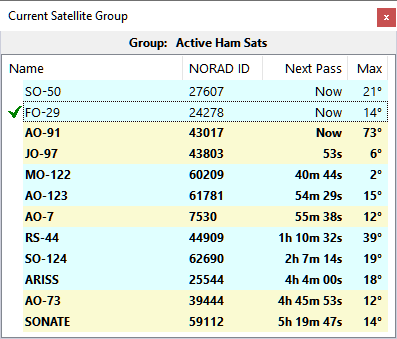
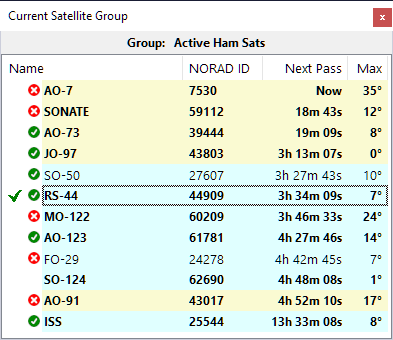
release v.1.7

diff --git a/docs/users_guide/waterfall_display.md b/docs/users_guide/waterfall_display.md
@@ -1,5 +1,7 @@
 # Waterfall Display
 
+## Using Waterfall Display
+
 The waterfall display and associated
 [Frequency Scale](frequency_scale.md)
 is the central piece of SkyRoof that integrates most of the functions available in the application:
@@ -29,3 +31,32 @@ and select a color palette:
 
 - [Frequency Scale](frequency_scale.md)
 - [Doppler Tracking](doppler_tracking.md)
+
+## Waterfall Display Characteristics
+
+Finding and tracking satellite signals on the VHF and UHF bands is a difficult task. These signals are weak
+because the output power of most satellite transmiites is in the milliwatt range. The fact that
+an omnidirectional antenna needs to be used to receive all in-range satellites at the same time makes this task
+even more difficult. On top of that, we need to see the whole 3-MHz frequency segment where the satellite signals
+may appear, and at the same time we want a very high resolution to examine the structure of the signals,
+and to tune precisely to CW, SSB and digital transmissions.
+
+The waterfall display in SkyRoof solves these problems by computing power spectra oversampled by a factor of about 100.
+This has three important consequences:
+
+1. You can zoom in the waterfall display without changing its resolution in Settings, just by spinning the mouse wheel.
+    When zoomed in to the maximum, you can see the signals with a **100x** maginification (20 Hz resolution).
+
+2. When zoomed out to the maxmimum to see the whole 3-MHz segment, the sensitivity of the waterfall display to
+    narrowband signals improves by about **15 dB** due to oversampling.
+
+3. Spectrum oversampling, however, increases the requirements to the hardware:
+    - more CPU power is needed to compute very large spectra;
+    - more texture memory is needed in the video card to store the spectra;
+    - support of OpenGL 3.3 or higher is required for the zoom function.
+
+    Please see the [System Requirements](system_requirements.md) section for the exact requirements.
+
+If your computer does not meet these requirements, you can still use the pass prediction, Doppler correction,
+radio control and rotator control functions in SkyRoof, just disable the SDR function and close the Waterfall
+Display panel.

diff --git a/docs/download.md b/docs/download.md
@@ -4,7 +4,7 @@
 
 ### Current Version
 
-[SkyRoof.zip v.1.6 Beta](https://github.com/VE3NEA/SkyRoof/releases/download/v.1.6-beta/SkyRoofSetup-v.1.6-beta.zip)
+[SkyRoof.zip v.1.7 Beta](https://github.com/VE3NEA/SkyRoof/releases/download/v.1.7-beta/SkyRoofSetup-v.1.7-beta.zip)
 
 <br>
 
@@ -15,6 +15,13 @@ See [All Releases](https://github.com/VE3NEA/SkyRoof/releases)
 <br>
 
 ### Release Notes
+
+#### v.1.7 Beta
+
+- added a real-time satellite status indicator to the
+[Current Group](users_guide/current_group_panel.md) panel. Must be enabled in Settings.
+
+    ![Current Group](images/current_group.png)
 
 #### v.1.6 Beta
 

diff --git a/docs/users_guide/system_requirements.md b/docs/users_guide/system_requirements.md
@@ -2,8 +2,9 @@
 
 ## Hardware
 
-- **Computer**: any modern 64-bit PC;
-- **Monitor**: screen resolution 1900x1280 or higher  4K recommended;
+- **Computer**: 64-bit PC. 3-GHz Quad-core CPU is recommended;
+- **Video Card**:  OpenGL 3.3 or higher, 512 Mb of texture memory;
+- **Monitor**: screen resolution 1900x1280 or higher, 4K recommended;
 - **Internet**: required, to download satellite data;
 - **SDR**: optional, but highly recommended. Supported models:
   - Airspy Mini;

diff --git a/docs/users_guide/current_group_panel.md b/docs/users_guide/current_group_panel.md
@@ -4,7 +4,11 @@ The Current Satellite Group panel shows the list of the satellites in the curren
 
 ![Current Group Panel](../images/current_group.png)
 
-Click on a satellite to select it. 
+The green and red icons indicate real-time satellite status (active or inactive) according
+to the AMSAT web site. See
+[Satellite Data](satellite_data.md) for details.
+
+Click on a satellite to select it.
 
 Move the mouse cursor over the satellite name to see the mouse tooltip.
 
